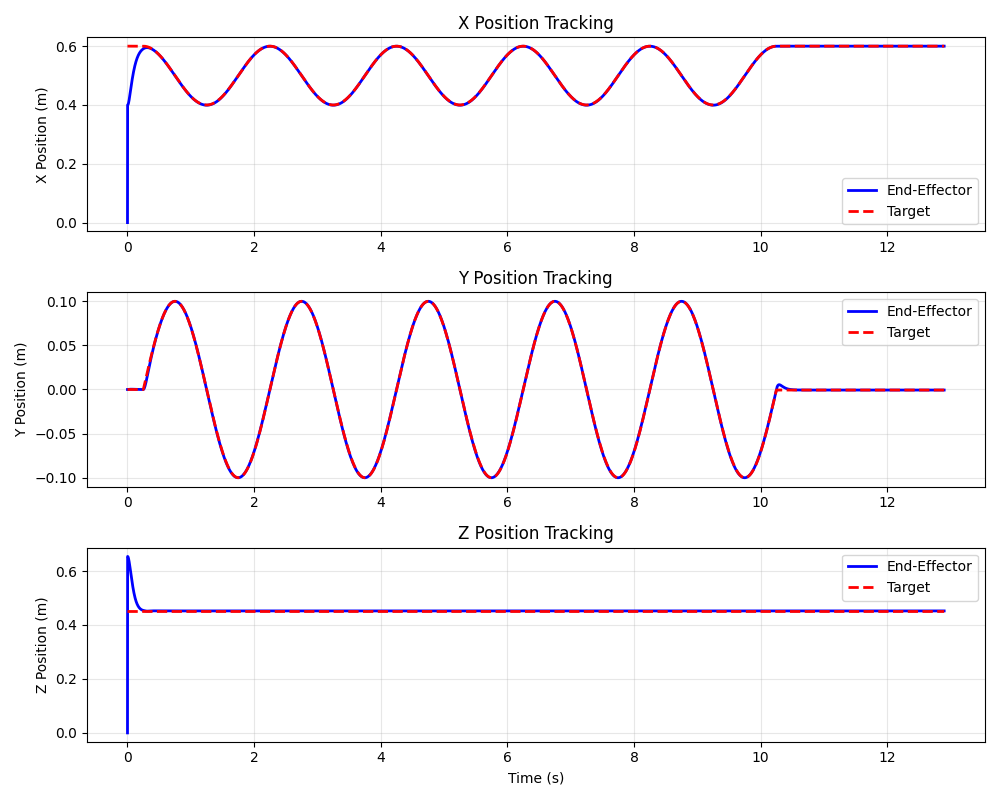
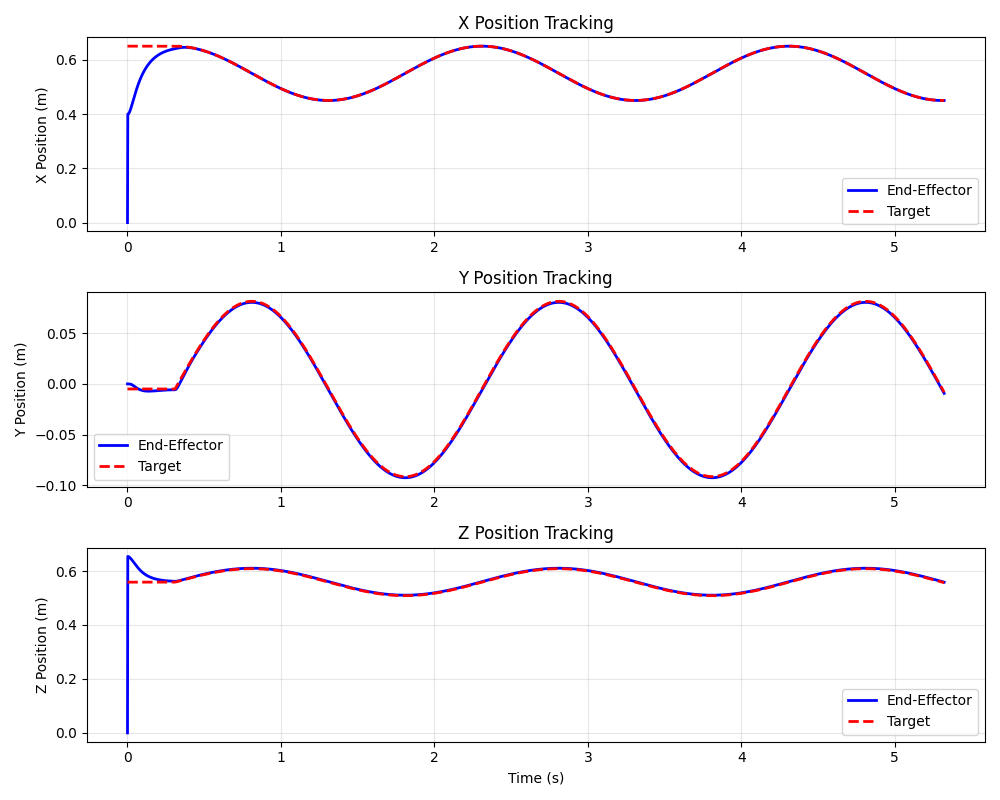
configuration changes

diff --git a/hybrid_impedance_slope.py b/hybrid_impedance_slope.py
@@ -92,7 +92,7 @@ def main() -> None:
     q0 = model.key(key_name).qpos
 
     # slope information and tracjectory
-    target_pos = np.array([0.6500, -0.0050, 0.5587])
+    target_pos = np.array([0.6500, -0.0050, 0.5587]) # size_z = 0.01
     target_pos_local = np.zeros(3)
     target_quat = np.array([0., 1., 0., 0.])
     quat_slope = np.zeros(4)
@@ -115,7 +115,7 @@ def main() -> None:
     contact_threshold = 8.0  # Force threshold to start drawing (close to desired 10N)
     contact_stable_time = 0
     contact_stable_duration = 1.0
-    angular_speed = np.pi/4
+    angular_speed = np.pi
 
     # normal control
     twist = np.zeros(6)
@@ -204,8 +204,8 @@ def main() -> None:
 
             current_contact_force, contact_pos = check_world_ee_contact_force(data, model, obj_name='slope_geom')
             # TODO change size z
-            F_ext_phi = current_contact_force @ S_f
-            F_ext_x = current_contact_force @ S_v
+            F_ext_phi = current_contact_force @ S_fc
+            F_ext_x = current_contact_force @ S_vc
             F_ext_v = None # no external contact on the arm and elbows
             # Check if it arrives at surface
             if not circle_drawing:
@@ -373,12 +373,12 @@ def main() -> None:
                 F_ext_x_new = F_ext_x.copy()
                 F_ext_x_new[-3:] = 0
                 control_force_compensation = 1 * (- Mx_constraint @ J_phi @ M_inv @ (tau_ctrl_x + tau_ctrl_v))
-                contact_force_compensation = 1 * (Mx_constraint @ J_phi @ M_inv @ (J_motion.T @ F_ext_x_new))
+                contact_force_compensation = 0 * (Mx_constraint @ J_phi @ M_inv @ (J_motion.T @ F_ext_x_new))
                 verlociy_term = -1 * Mx_constraint @ (J_phi @ M_inv @ C - J_phi_dot) @ data.qvel.copy()
                 F_ctrl_constraint = (
                     F_desired_contact +
                     control_force_compensation +
-                    1 * contact_force_compensation + verlociy_term
+                    contact_force_compensation + verlociy_term
                 )
                 vis_forces = [
                     np.concatenate([[0,0],F_desired_contact]), 

diff --git a/hybrid_impedance_phi_1.py b/hybrid_impedance_phi_1.py
@@ -366,12 +366,12 @@ def main() -> None:
                 F_ext_x_new = F_ext_x.copy()
                 F_ext_x_new[-3:] = 0
                 control_force_compensation = 1 * (- Mx_constraint @ J_phi @ M_inv @ (tau_ctrl_x + tau_ctrl_v))
-                contact_force_compensation = 1 * (Mx_constraint @ J_phi @ M_inv @ (J_motion.T @ F_ext_x_new))
+                contact_force_compensation = 0 * (Mx_constraint @ J_phi @ M_inv @ (J_motion.T @ F_ext_x_new))
                 verlociy_term = -1 * Mx_constraint @ (J_phi @ M_inv @ C - J_phi_dot) @ data.qvel.copy()
                 F_ctrl_constraint = (
                     F_desired_contact +
                     control_force_compensation +
-                    1 * contact_force_compensation + verlociy_term
+                    contact_force_compensation + verlociy_term
                 )
                 vis_forces = [
                     np.concatenate([[0,0],F_desired_contact]), 
@@ -380,8 +380,8 @@ def main() -> None:
                     ]
                 # --------------------- PI term -------------------------------
                 # # F_ctrl_constraint = F_desired_contact.copy()
-                pi_term, integral_force_error = PI_term(-F_ext_phi, F_desired_contact, dt, integral_force_error)
-                F_ctrl_constraint += pi_term
+                # pi_term, integral_force_error = PI_term(-F_ext_phi, F_desired_contact, dt, integral_force_error)
+                # F_ctrl_constraint += pi_term
                 # -------------------- PD force control ----------------
                 # fλ = λ¨d + KDλ(λ˙ d − λ˙ ) + KP λ(λd − λ), (9.81)
                 # Problem: λ˙ = Sf† K'J(q)q̇

diff --git a/utils.py b/utils.py
@@ -96,12 +96,13 @@ def check_world_ee_contact_force(data, model, obj_name='board'):
             if contact.geom1 == model.geom(obj_name).id or contact.geom2 == model.geom(obj_name).id:
                 mujoco.mj_contactForce(model, data, i, contact_force_local)
                 break
+        # Contact frame x-axis (normal) points FROM geom2 TO geom1
         contact_rot = contact.frame.reshape(3, 3) # from local to world
+        # contact_rot = np.array([[0.0, 0.0, -1.0], [0.0, 1.0, 0.0], [1.0, -0.0, 0.0]])
         contact_pos = contact.pos.copy()
         force_local = contact_force_local[:3]
         moment_local = contact_force_local[3:]
         force_world = contact_rot @ force_local
-        # TODO: can I get world frame moment like this?
         # answer: moment_world = R @ moment_local + p × force_world
         moment_rotated = contact_rot @ moment_local
         position_cross_force = np.cross(contact_pos, force_world)
